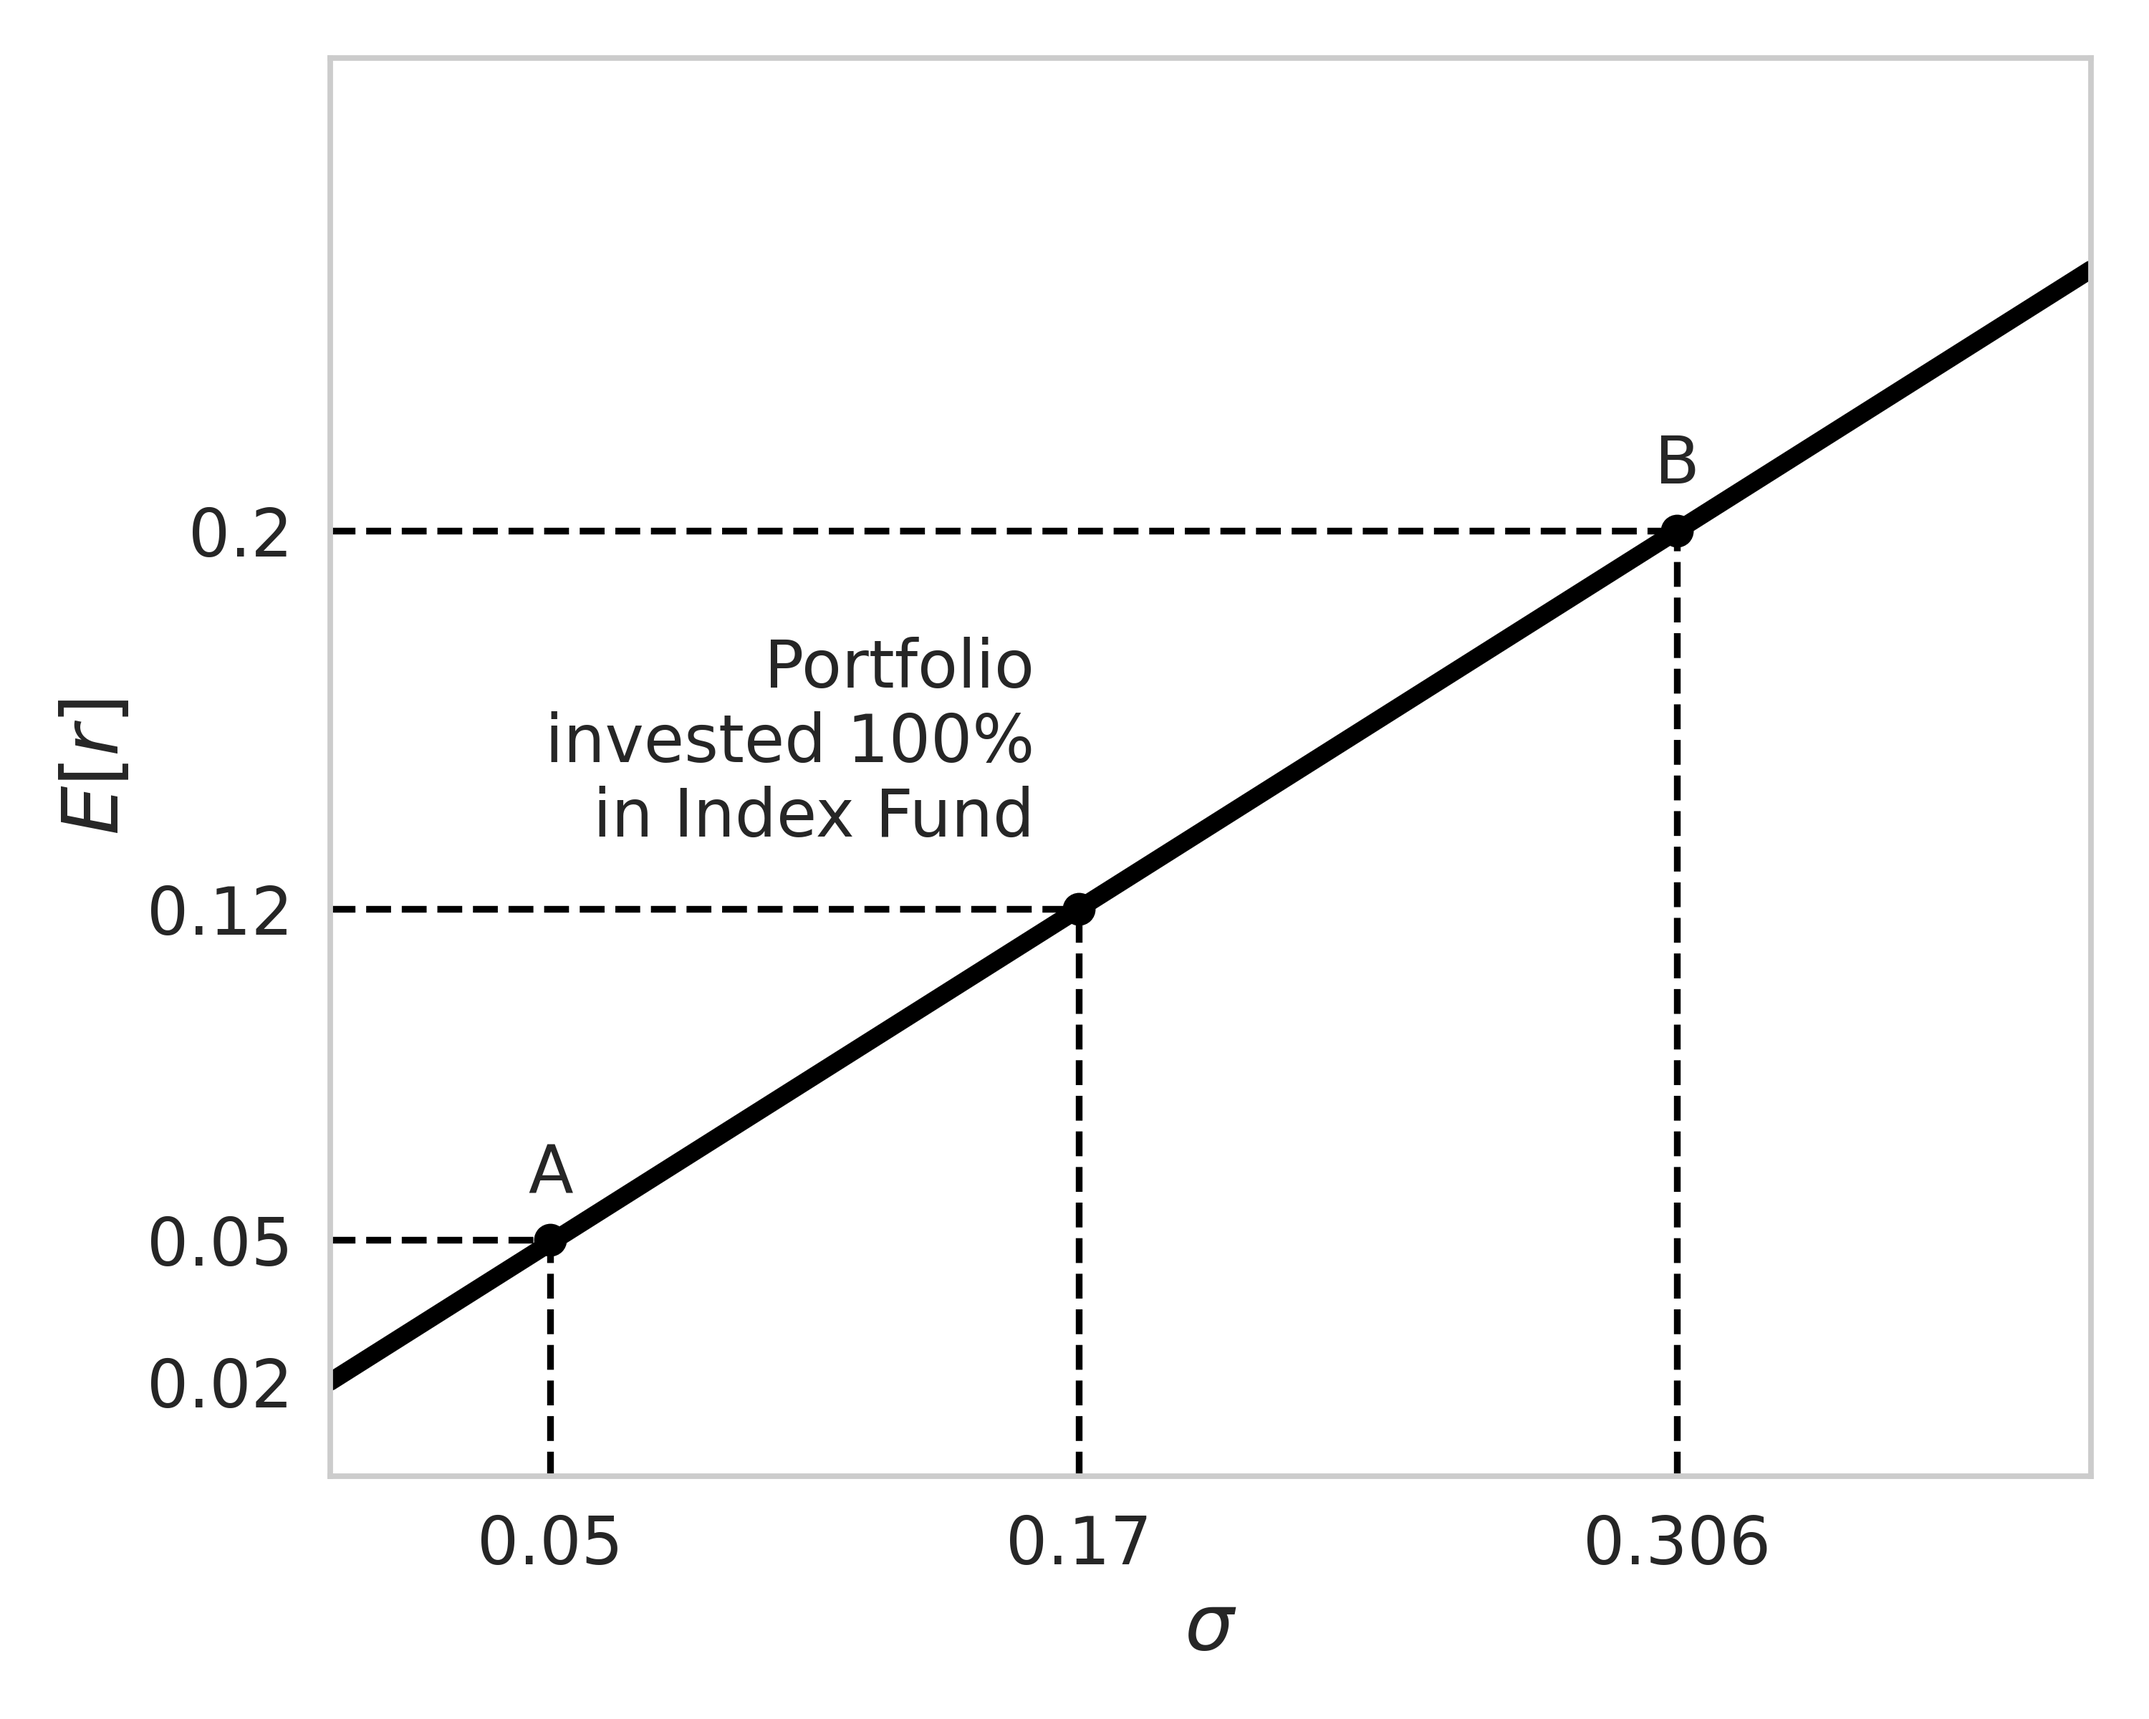
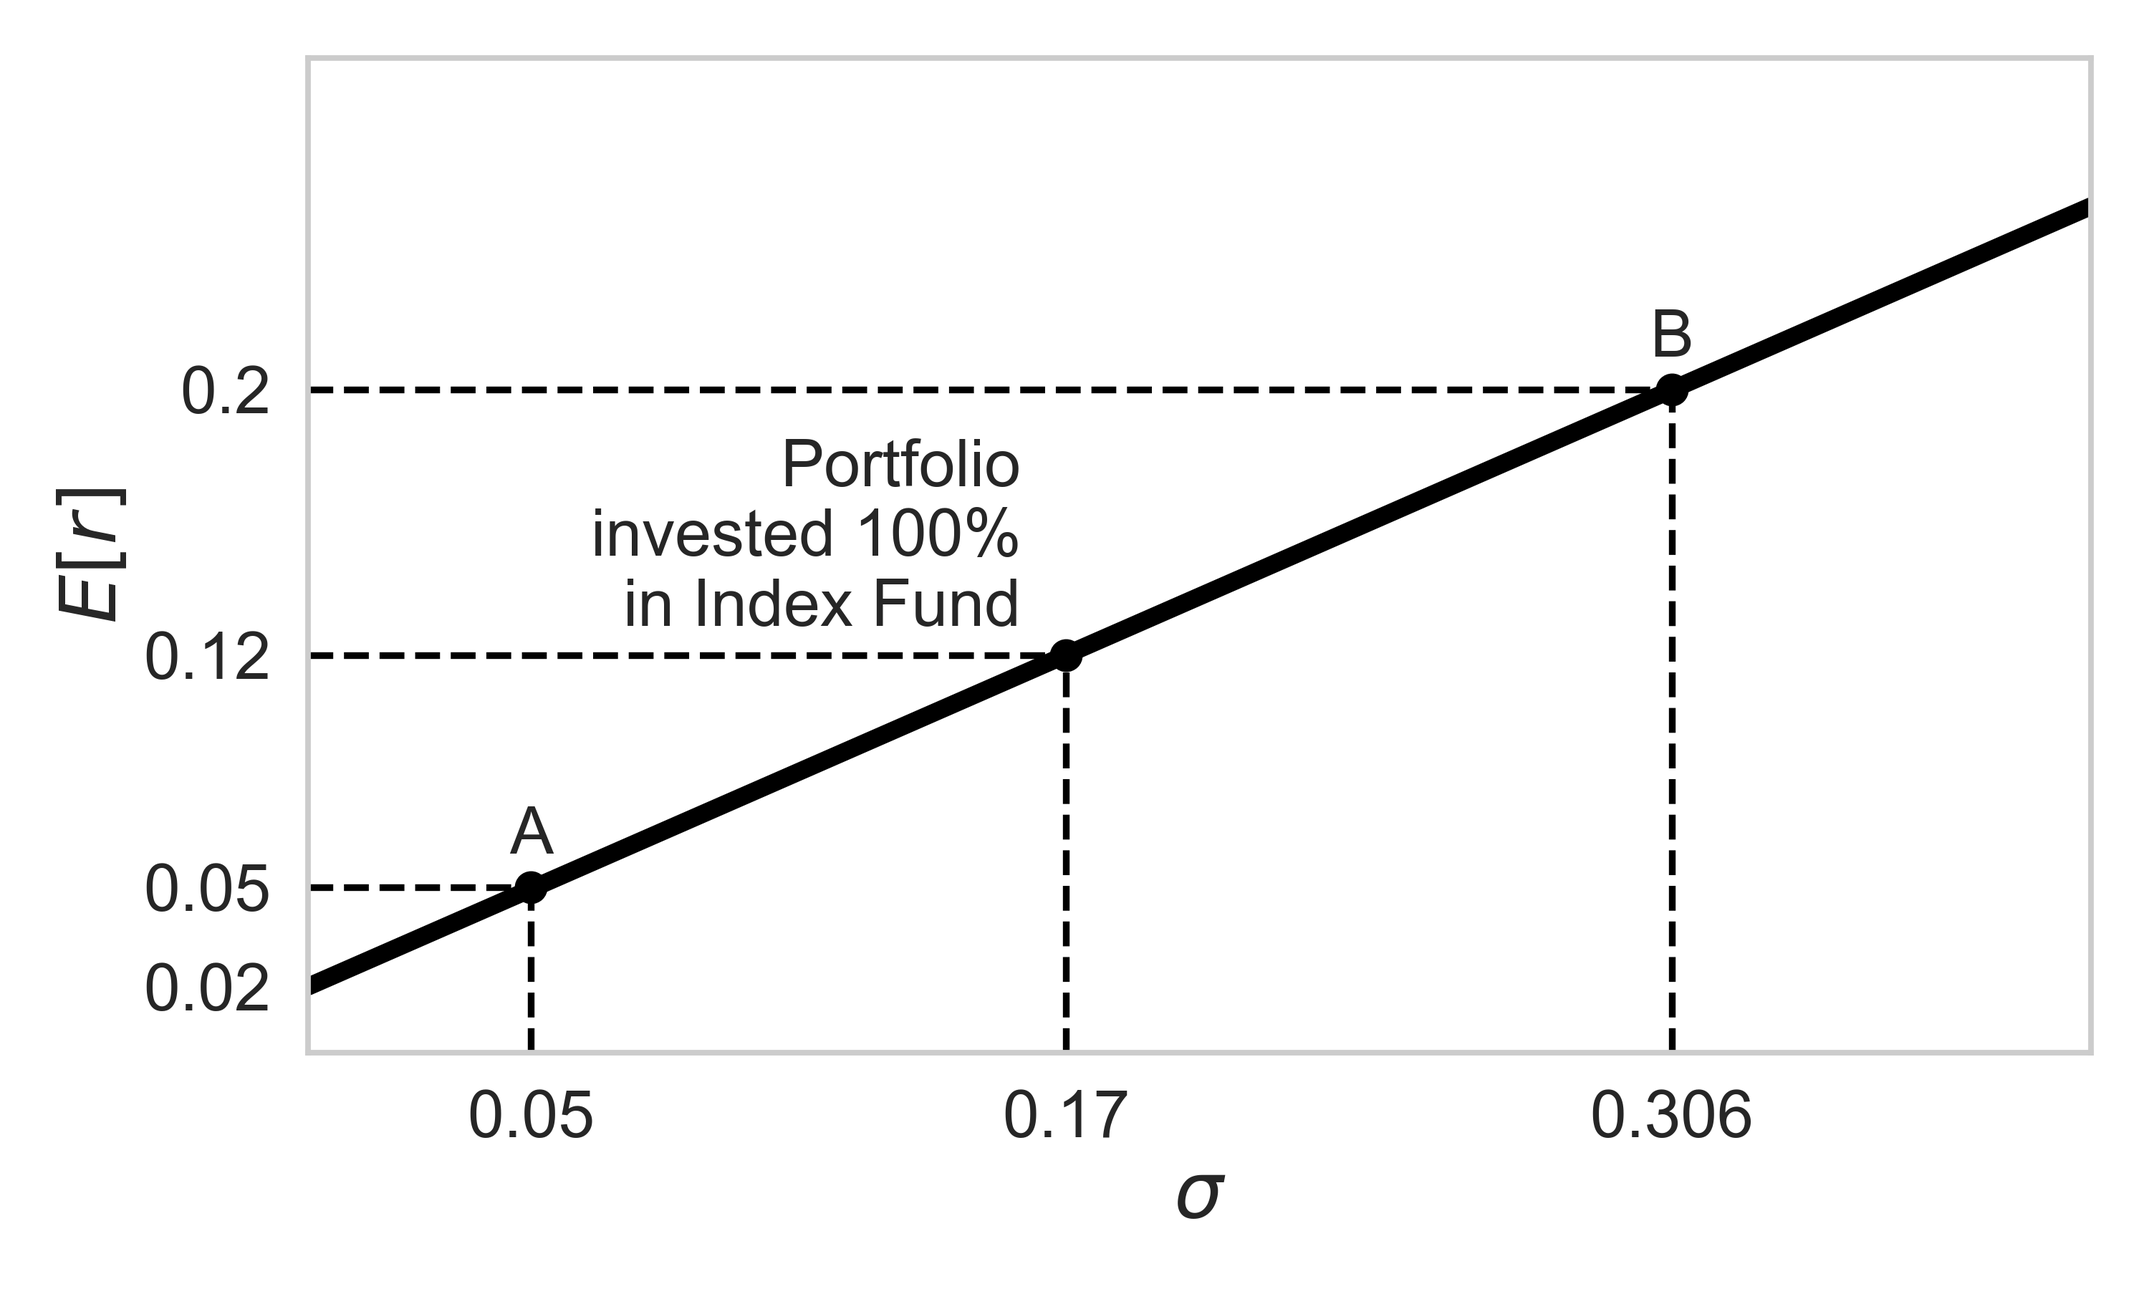
Small fixes. Mostly extra comments and deprecated seaborn methods.

diff --git a/CH6_6.3.1_moving_along_CAL.py b/CH6_6.3.1_moving_along_CAL.py
@@ -1,6 +1,6 @@
 import matplotlib.pyplot as plt
-import seaborn as sns
 import numpy as np
+import seaborn as sns
 
 # Set Seaborn style
 sns.set(style="whitegrid")
@@ -22,36 +22,58 @@ levered_position = (0.27, 0.14)
 
 # Plot points with labels
 for i, (x, y, label) in enumerate(
-    [(conservative_position[0], conservative_position[1], "Conservative Position"),
-     (fund[0], fund[1], "Fund"),
-     (levered_position[0], levered_position[1], "Levered Position")], start=1):
+    [
+        (conservative_position[0], conservative_position[1], "Conservative Position"),
+        (fund[0], fund[1], "Fund"),
+        (levered_position[0], levered_position[1], "Levered Position"),
+    ],
+    start=1,
+):
     plt.scatter(x, y, color="black", s=100, zorder=5)
     plt.text(x - 0.01, y + 0.001, str(i), fontsize=20, color="black", ha="center")
     plt.text(x + 0.01, y - 0.015, label, fontsize=20, color="black")
 
 # Add arrows and labels for lending and borrowing
-plt.annotate("", xy=(0.03, 0.0582), xytext=(0.16, 0.1154),
-             arrowprops=dict(facecolor="blue", edgecolor="blue", arrowstyle="->", linewidth=2),
-             fontsize=22, color="blue", ha="center")
-
-plt.text(
-    (0.03 + 0.16) / 2, (0.0582 + 0.1154) / 2 + 0.015, 
-    'Risk Free Lending',
-    rotation=25,  # Rotate text to match arrow angle
-    rotation_mode='anchor',  # Rotate around anchor point
-    fontsize=20, ha='center', va='center'  # Center-align text
+plt.annotate(
+    "",
+    xy=(0.03, 0.0582),
+    xytext=(0.16, 0.1154),
+    arrowprops=dict(facecolor="blue", edgecolor="blue", arrowstyle="->", linewidth=2),
+    fontsize=22,
+    color="blue",
+    ha="center",
 )
 
-plt.annotate("", xy=(0.33, 0.1902), xytext=(0.20, 0.133),
-             arrowprops=dict(facecolor="blue", edgecolor="blue", arrowstyle="->", linewidth=2),
-             fontsize=22, color="blue", ha="center")
+plt.text(
+    (0.03 + 0.16) / 2,
+    (0.0582 + 0.1154) / 2 + 0.015,
+    "Risk Free Lending",
+    rotation=25,  # Rotate text to match arrow angle
+    rotation_mode="anchor",  # Rotate around anchor point
+    fontsize=20,
+    ha="center",
+    va="center",  # Center-align text
+)
+
+plt.annotate(
+    "",
+    xy=(0.33, 0.1902),
+    xytext=(0.20, 0.133),
+    arrowprops=dict(facecolor="blue", edgecolor="blue", arrowstyle="->", linewidth=2),
+    fontsize=22,
+    color="blue",
+    ha="center",
+)
 
 plt.text(
-    (0.33 + 0.20) / 2, (0.1902 + 0.133) / 2 + 0.015, 
-    'Risk Free Borrowing',
+    (0.33 + 0.20) / 2,
+    (0.1902 + 0.133) / 2 + 0.015,
+    "Risk Free Borrowing",
     rotation=25,  # Rotate text to match arrow angle
-    rotation_mode='anchor',  # Rotate around anchor point
-    fontsize=20, ha='center', va='center'  # Center-align text
+    rotation_mode="anchor",  # Rotate around anchor point
+    fontsize=20,
+    ha="center",
+    va="center",  # Center-align text
 )
 
 # Set axis limits and ticks
@@ -65,7 +87,4 @@ sns.despine()
 
 # Final adjustments and show plot
 plt.tight_layout()
-plt.savefig(
-    "plots/CH6_6.3.1_moving_along_CAL.png", dpi=300
-)  # Save with high resolution (300 dpi)
-#plt.show()
+plt.savefig("plots/CH6_6.3.1_moving_along_CAL.png", dpi=300)  # Save with high resolution (300 dpi)

diff --git a/CH6_6.2.5_Mosaic_Vanguard_CAL.py b/CH6_6.2.5_Mosaic_Vanguard_CAL.py
@@ -1,6 +1,6 @@
 import matplotlib.pyplot as plt
-import seaborn as sns
 import numpy as np
+import seaborn as sns
 
 # Set Seaborn style
 sns.set(style="whitegrid")
@@ -26,16 +26,31 @@ plt.plot(x_mosaic, y_mosaic, color="red", label="Mosaic CAL", linewidth=2)
 # Define the Client's Portfolio point
 client_portfolio = (0.2625, 0.14)
 plt.scatter(*client_portfolio, color="cyan", s=100, edgecolor="black", zorder=5)
-plt.text(client_portfolio[0] + 0.1, client_portfolio[1] - 0.012, "Client's Portfolio", 
-         fontsize=22, ha="center")
+plt.text(
+    client_portfolio[0] + 0.1,
+    client_portfolio[1] - 0.012,
+    "Client's Portfolio",
+    fontsize=22,
+    ha="center",
+)
 
 # Add dashed lines from Client's Portfolio
 # Horizontal dashed line
-plt.plot([(client_portfolio[1] - intercept)/vanguard_sharpe, client_portfolio[0]], [client_portfolio[1], client_portfolio[1]], 
-         linestyle="dashed", color="black", linewidth=1.5)
+plt.plot(
+    [(client_portfolio[1] - intercept) / vanguard_sharpe, client_portfolio[0]],
+    [client_portfolio[1], client_portfolio[1]],
+    linestyle="dashed",
+    color="black",
+    linewidth=1.5,
+)
 # Vertical dashed line
-plt.plot([client_portfolio[0], client_portfolio[0]], [intercept + client_portfolio[0] * vanguard_sharpe, client_portfolio[1]], 
-         linestyle="dashed", color="black", linewidth=1.5)
+plt.plot(
+    [client_portfolio[0], client_portfolio[0]],
+    [intercept + client_portfolio[0] * vanguard_sharpe, client_portfolio[1]],
+    linestyle="dashed",
+    color="black",
+    linewidth=1.5,
+)
 
 # Set axis limits and ticks
 plt.xlim(0, 0.6)
@@ -52,4 +67,3 @@ plt.legend(fontsize=22, loc="upper left")
 plt.savefig(
     "plots/CH6_6.2.5_Mosaic_Vanguard_CAL.png", dpi=300
 )  # Save with high resolution (300 dpi)
-#plt.show()

diff --git a/CH6_6.2.2_capital_allocation_line.py b/CH6_6.2.2_capital_allocation_line.py
@@ -2,14 +2,14 @@ import matplotlib.pyplot as plt
 import seaborn as sns
 
 # Set Seaborn style and figure size
-sns.set(style="whitegrid", context="talk")
+sns.set_theme(style="whitegrid", context="talk")
 fig, ax = plt.subplots(figsize=(10, 6))
 
 # Define data points
 points = {
     "A": (0.05, 0.05),
     "Portfolio\ninvested 100%\nin Index Fund": (0.17, 0.12),
-    "B": (0.306, 0.20)
+    "B": (0.306, 0.20),
 }
 x_vals = [p[0] for p in points.values()]
 y_vals = [p[1] for p in points.values()]
@@ -21,11 +21,13 @@ ax.plot([0, 0.4], [intercept, intercept + slope * 0.4], color="black", linewidth
 
 # Add points and dashed lines
 for label, (x, y) in points.items():
-    ax.plot(x, y, 'o', color="black", markersize=10)
-    ax.axhline(y=y, xmin=0, xmax=x/0.4, linestyle="--", color="black")
-    ax.axvline(x=x, ymin=0, ymax=y/0.3, linestyle="--", color="black")
+    ax.plot(x, y, "o", color="black", markersize=10)
+    ax.axhline(y=y, xmin=0, xmax=x / 0.4, linestyle="--", color="black")
+    ax.axvline(x=x, ymin=0, ymax=y / 0.3, linestyle="--", color="black")
     if "Portfolio" in label:
-        ax.text(x - 0.01, y + 0.035, label, fontsize=22, ha="right", va="center")  # Move to the left
+        ax.text(
+            x - 0.01, y + 0.035, label, fontsize=22, ha="right", va="center"
+        )  # Move to the left
     else:
         ax.text(x, y + 0.01, label, fontsize=22, ha="center")
 
@@ -43,6 +45,5 @@ ax.set_yticklabels([0.02, 0.05, 0.12, 0.20], fontsize=22)
 plt.grid(False)
 plt.tight_layout()
 plt.savefig(
-    "plots/CH6_capital_allocation_line.png", dpi=300
+    "plots/CH6_6.2.2_capital_allocation_line.png", dpi=300
 )  # Save with high resolution (300 dpi)
-plt.show()

diff --git a/CH6_6.2.3_two_CAL_lines.py b/CH6_6.2.3_two_CAL_lines.py
@@ -2,7 +2,7 @@ import matplotlib.pyplot as plt
 import seaborn as sns
 
 # Set Seaborn style and figure size
-sns.set(style="whitegrid")
+sns.set_theme(style="whitegrid")
 fig, ax = plt.subplots(figsize=(8, 8))
 fig.tight_layout()
 
@@ -13,7 +13,7 @@ points = {
     3: (0.25, 0.128),  # Point 3
     4: (0.0417, 0.05),  # Point 4
     5: (0.0694, 0.07),  # Point 5
-    6: (0.0694, 0.05)   # Point 6
+    6: (0.0694, 0.05),  # Point 6
 }
 
 # Draw the CAL lines with the same intercept
@@ -38,7 +38,7 @@ for p1, p2 in dashed_pairs:
 # Add points with labels
 for idx, (x, y) in points.items():
     color = "green" if idx in {1, 5} else "red" if idx in {2, 4} else "black"
-    ax.plot(x, y, 'o', color=color, markersize=10)
+    ax.plot(x, y, "o", color=color, markersize=10)
     ax.text(x - 0.008, y + 0.002, str(idx), fontsize=22, ha="center")
 
 # Add investor labels
@@ -50,7 +50,7 @@ ax.set_xlabel(r"$\sigma$", fontsize=26)
 ax.set_ylabel(r"$E[r]$", fontsize=26)
 ax.set_xlim(0, 0.4)
 ax.set_ylim(0, 0.22)
-ax.tick_params(axis='both', labelsize=22)
+ax.tick_params(axis="both", labelsize=22)
 
 # Add legend
 ax.legend(fontsize=22, loc="upper left")
@@ -60,7 +60,4 @@ ax.set_yticks([])
 # Show the plot
 plt.grid(False)
 plt.tight_layout()
-plt.savefig(
-    "plots/CH6_6.2.3_two_CAL_lines.png", dpi=300
-)  # Save with high resolution (300 dpi)
-plt.show()
+plt.savefig("plots/CH6_6.2.3_two_CAL_lines.png", dpi=300)  # Save with high resolution (300 dpi)

diff --git a/CH6_6.2.4_two_fund_separation.py b/CH6_6.2.4_two_fund_separation.py
@@ -1,10 +1,9 @@
 import matplotlib.pyplot as plt
-import seaborn as sns
 import numpy as np
+import seaborn as sns
 
 # Set style and context
 sns.set_style("white")
-# sns.set_context("talk")
 
 # Create the plot
 fig, ax = plt.subplots(figsize=(10, 8))
@@ -38,16 +37,30 @@ ax.vlines(point_A[0], 0, point_A[1], linestyles="dashed", colors="black")
 
 # Annotate points
 ax.text(point_B[0] + 0.01, point_B[1] - 0.01, "B", fontsize=22, va="center", ha="left")
-ax.text(point_P[0] + 0.01, point_P[1] - 0.03, "Asset with\nmaximum\nSharpe Ratio", fontsize=22, va="center", ha="left")
+ax.text(
+    point_P[0] + 0.01,
+    point_P[1] - 0.03,
+    "Asset with\nmaximum\nSharpe Ratio",
+    fontsize=22,
+    va="center",
+    ha="left",
+)
 ax.text(point_A[0] + 0.01, point_A[1] - 0.01, "A", fontsize=22, va="center", ha="left")
 
 # Annotate the region
-ax.text(0.03, 0.22, "Impossible to\ncreate portfolios in\nthis region.", fontsize=22, va="center", ha="left", 
-        bbox=dict(facecolor='white', edgecolor='black'))
+ax.text(
+    0.03,
+    0.22,
+    "Impossible to\ncreate portfolios in\nthis region.",
+    fontsize=22,
+    va="center",
+    ha="left",
+    bbox=dict(facecolor="white", edgecolor="black"),
+)
 
 # Set limits, labels, and ticks
 ax.set_xlim(0, 0.3)
-ax.set_ylim(0,0.3)
+ax.set_ylim(0, 0.3)
 ax.set_xlabel("$\\sigma$", fontsize=26)
 ax.set_ylabel("E[r]", fontsize=26)
 ax.set_xticks([point_B[0], point_A[0]])
